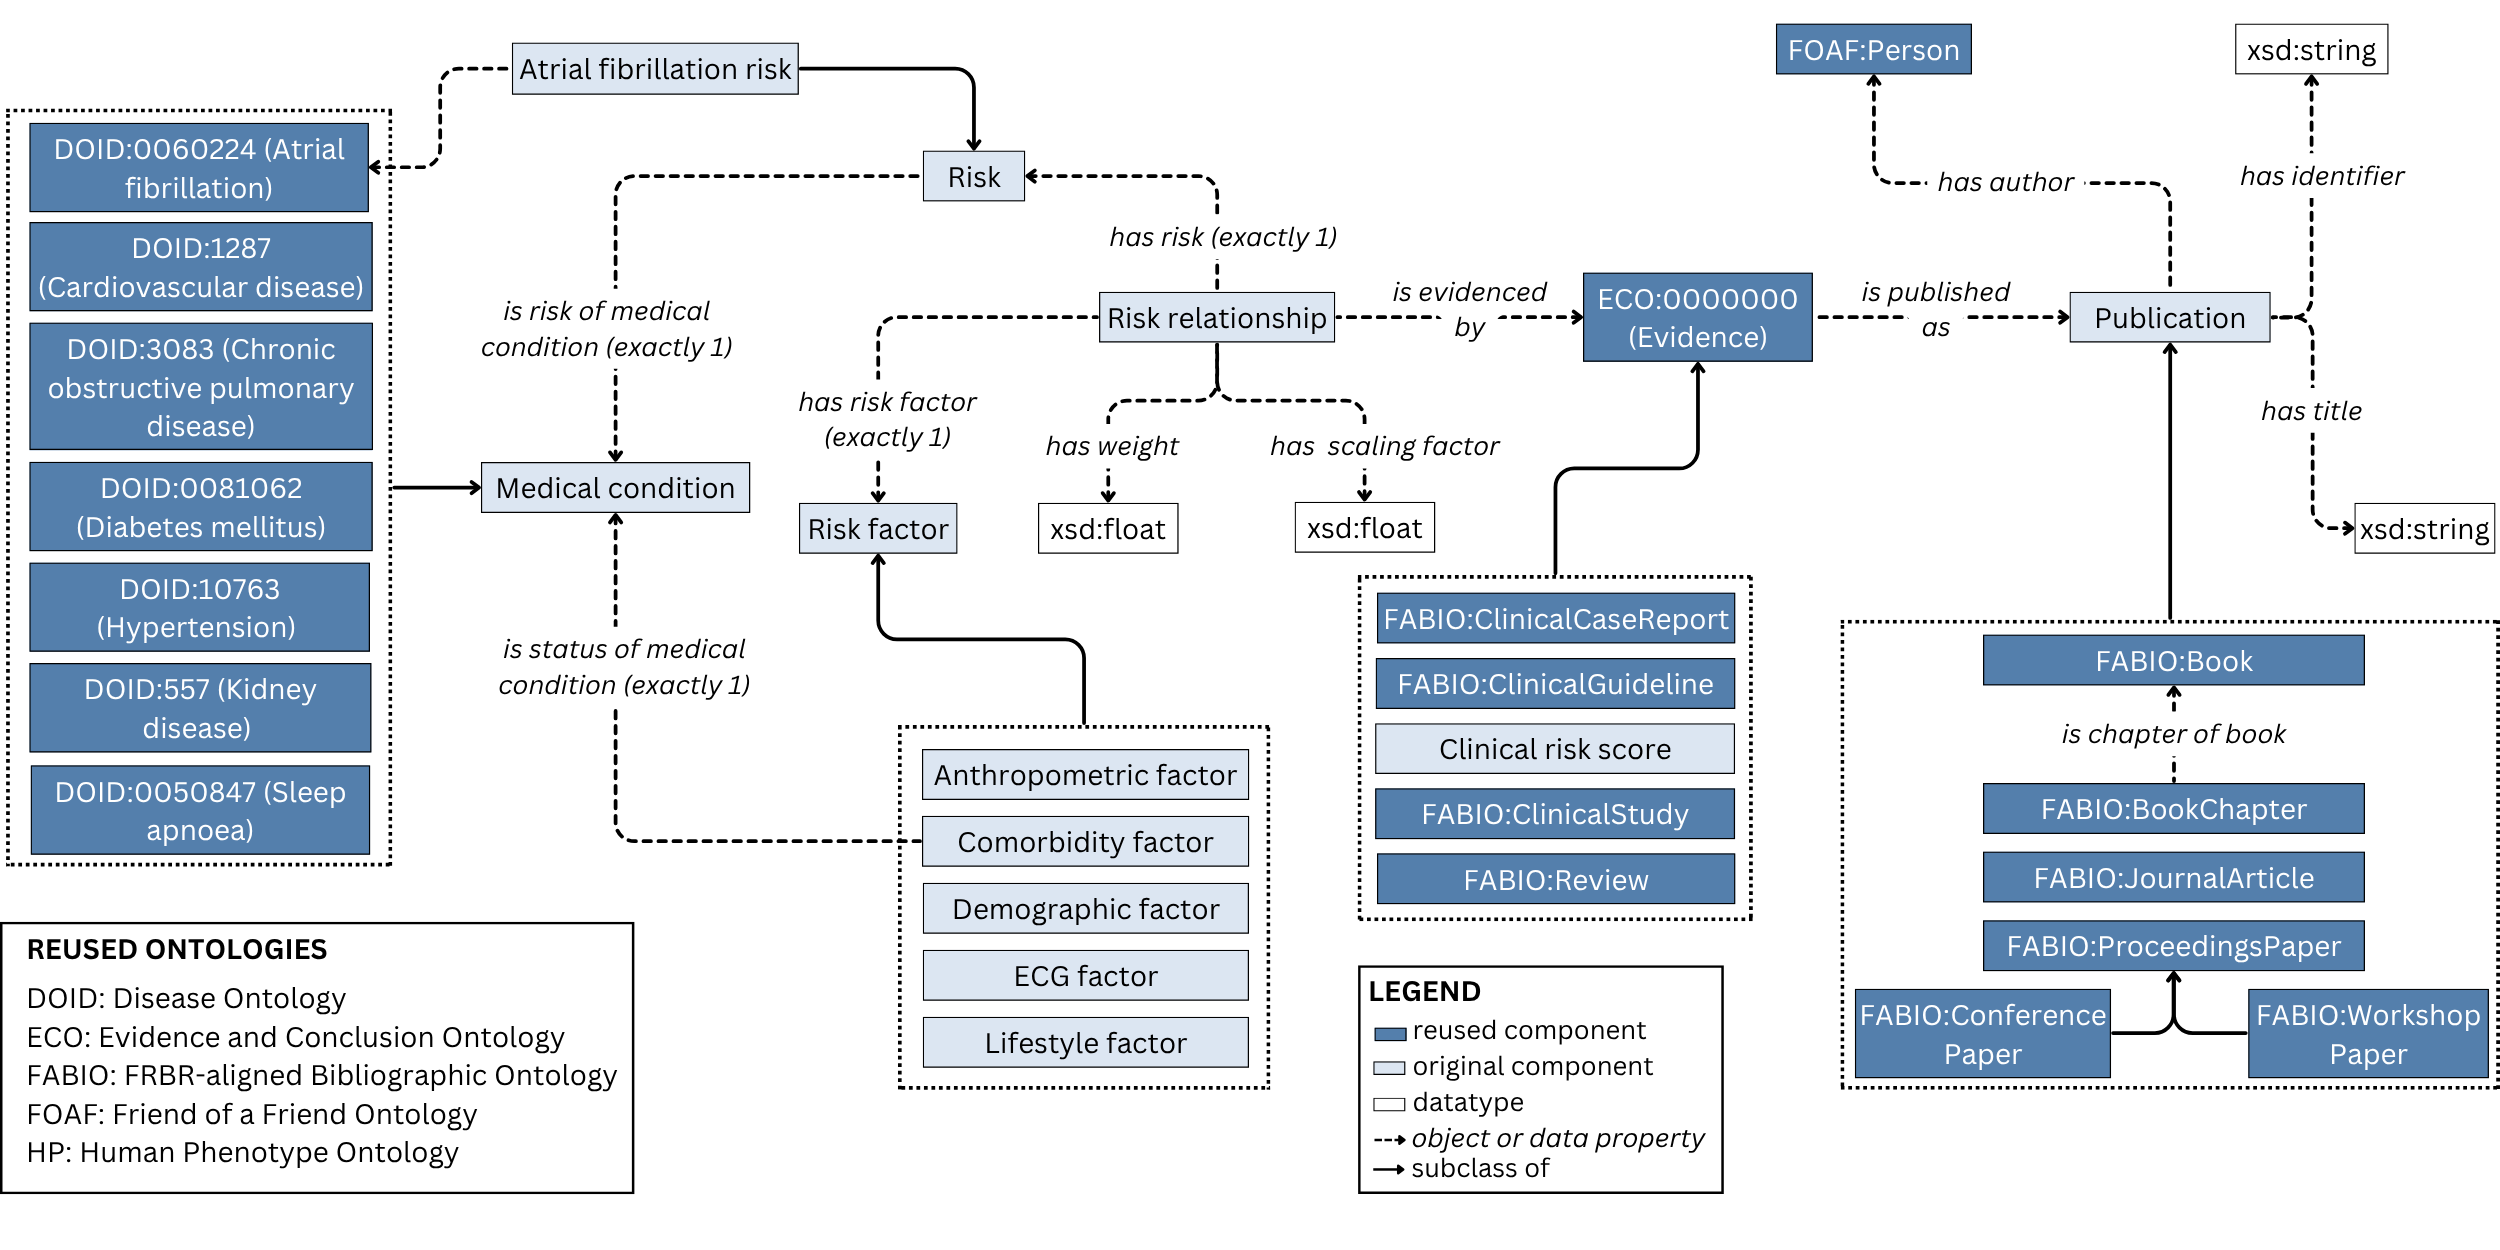
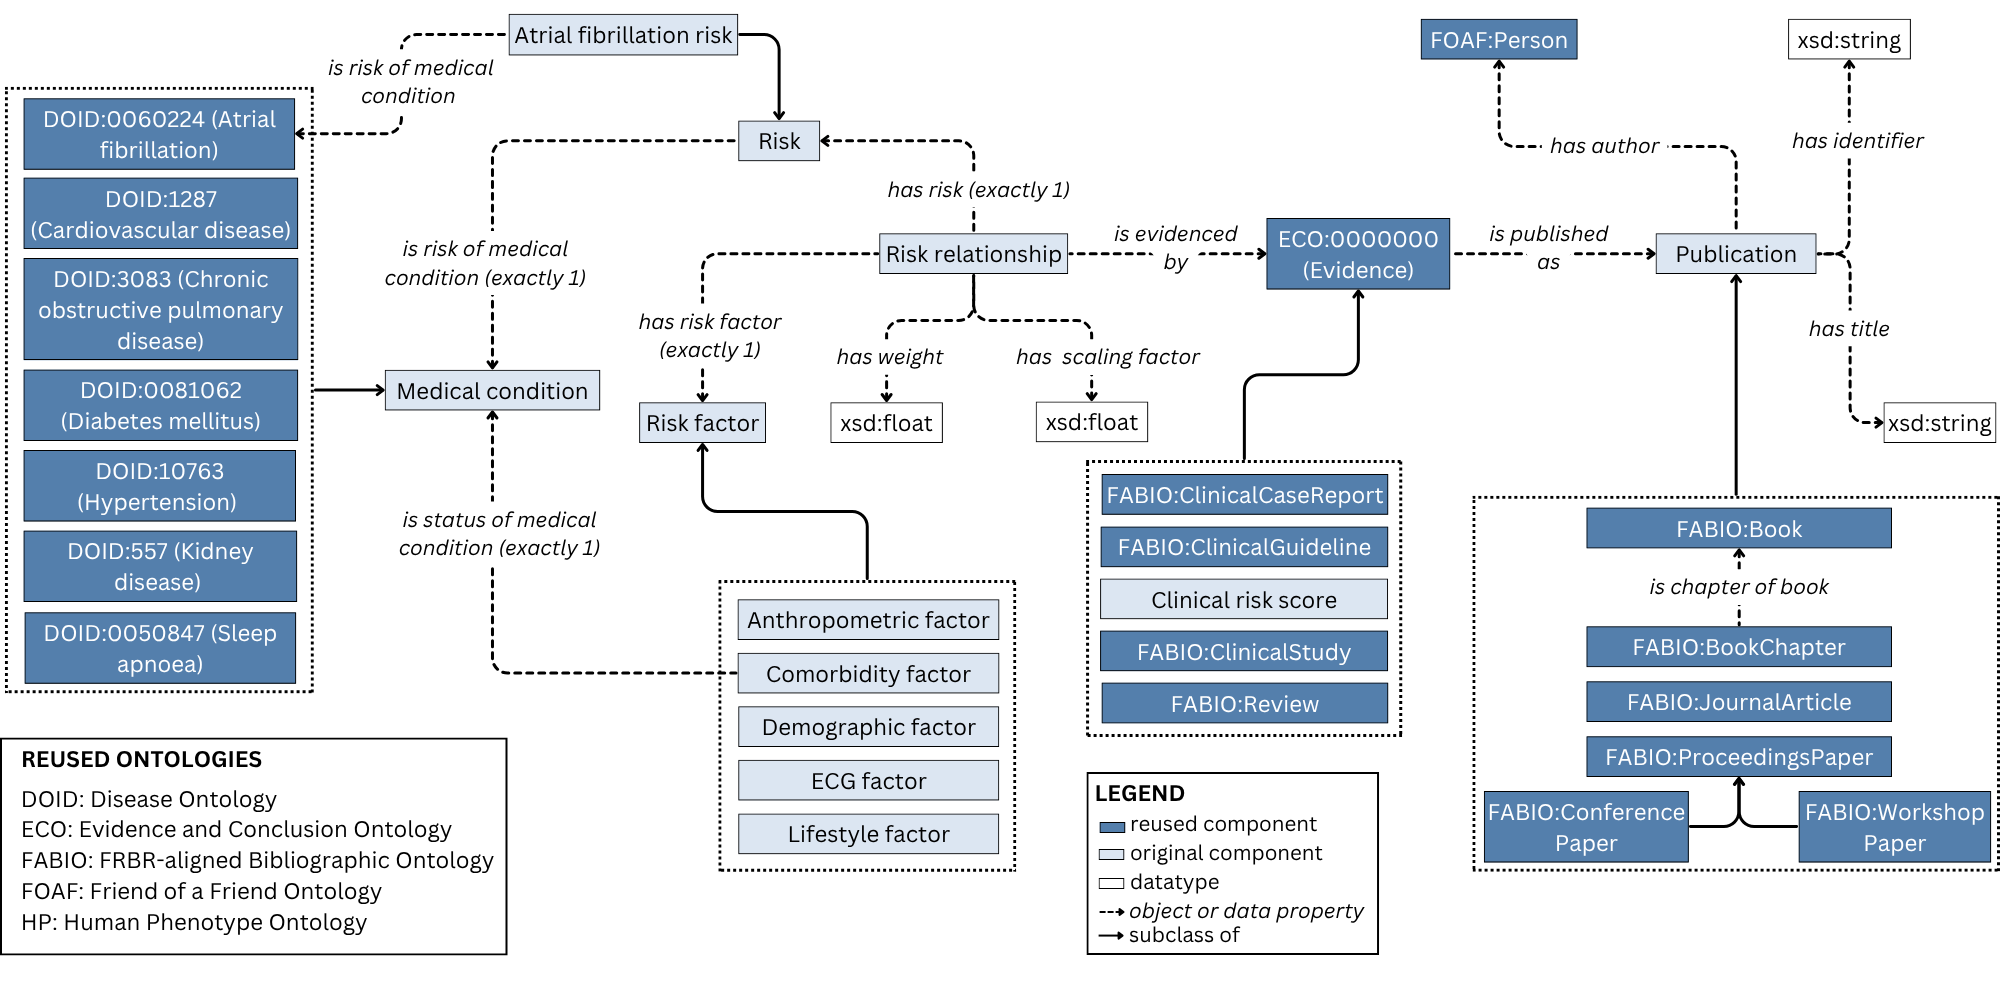
Update ontology diagrams

diff --git a/docs/sections/description-en.html b/docs/sections/description-en.html
@@ -6,6 +6,11 @@
 </figure>
 
 <figure>
+   <img src="https://raw.githubusercontent.com/mbithenzomo/afmo/main/images/sensor_data.png" alt="Sensor data representation in the AFMO" style="max-width: 100%; height: auto;" />
+   <figcaption>Sensor data representation in the AFMO</figcaption>
+</figure>
+
+<figure>
    <img src="https://raw.githubusercontent.com/mbithenzomo/afmo/main/images/risk_factors.png" alt="Risk factor classes in the AFMO" style="max-width: 100%; height: auto;" />
    <figcaption>Risk factor classes in the AFMO</figcaption>
 </figure>

diff --git a/README.md b/README.md
@@ -7,10 +7,7 @@
 The Atrial Fibrillation Monitoring Ontology (AFMO) is a component of a hybrid AI architecture for personal health monitoring using heterogeneous and multimodal health data. It is designed to formally represent health data and expert knowledge for atrial fibrillation (AF) monitoring. This involves three key functionalities: AF detection, AF risk prediction, and decision support.
 
 ## Documentation
-Coming soon.
-
-## Ontology visualisations
-The AFMO has 12 top-level classes which can broadly be grouped into sensors and sensor data, personal information, and medical knowledge. 
+The AFMO has 12 top-level classes which can broadly be grouped into sensors and sensor data, personal information (including comorbidities and other risk factors that a person may have), and medical knowledge. A comprehensive ontology documentation, including a WebVOWL visualisation of how the different classes relate to each other, can be found [here](https://mbithenzomo.github.io/afmo/).
 
 ![Top level classes of the AFMO](/images/top_level.png)
 *Top level classes of the AFMO.*
